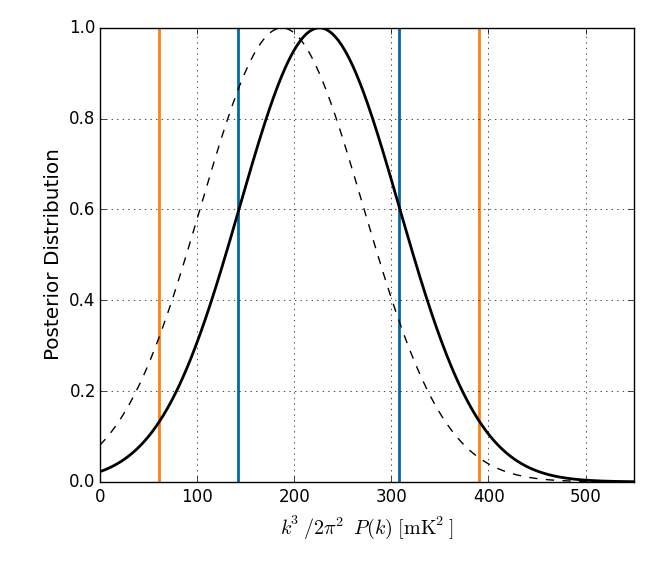
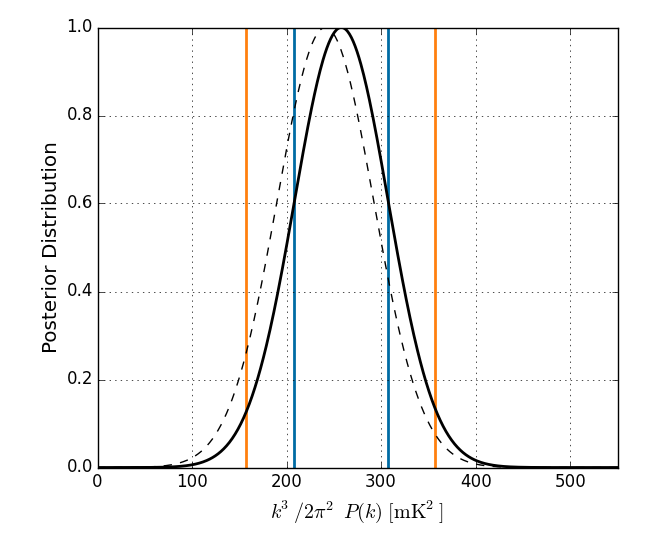
fix plot_pk_k3pk.py to reflect new fr filter correction factor
update figures.
Figures from new lst binned data with xtalk removed with fringe rate filter

diff --git a/plots/plot_pk_k3pk.py b/plots/plot_pk_k3pk.py
@@ -24,7 +24,8 @@ opts,args = o.parse_args(sys.argv[1:])
 print args
 
 dspec='data/final_pspecs/v032/nocov_pspec.npz'
-args=['data/final_pspecs/v032/pspec.npz']
+#args=['data/final_pspecs/v032/pspec.npz']
+args=['data/final_pspecs/v040/pspec.npz']
 
 def noise_level():
     tsys = 500e3 #mK
@@ -46,7 +47,7 @@ def noise_level():
     bm = n.polyval(C.pspec.DEFAULT_BEAM_POLY, freq) * 2.35 # correction for beam^2
     scalar = X2Y * bm 
 
-    fr_correct = 1.9
+    fr_correct = 1.39
 
 
     print 'scalar:', scalar
@@ -334,7 +335,8 @@ for sep in RS_VS_KPL:
         nos_fold *= f
     if True: # For aggressive fringe-rate filtering, change beam area
         f = opts.afrf_factor
-        f = 1.90 # ratio of power**2 beams for filtered * unfiltered beams: 0.306 / 0.162
+#        f = 1.90 # ratio of power**2 beams for filtered * unfiltered beams: 0.306 / 0.162
+        f = 1.39 # ratio of power**2 beams for filtered * unfiltered beams: 0.306 / 0.162
         print 'Scaling data and noise by %f for beam constriction in aggressive fringe-rate filtering.' % f
         d *= f
         nos *= f
